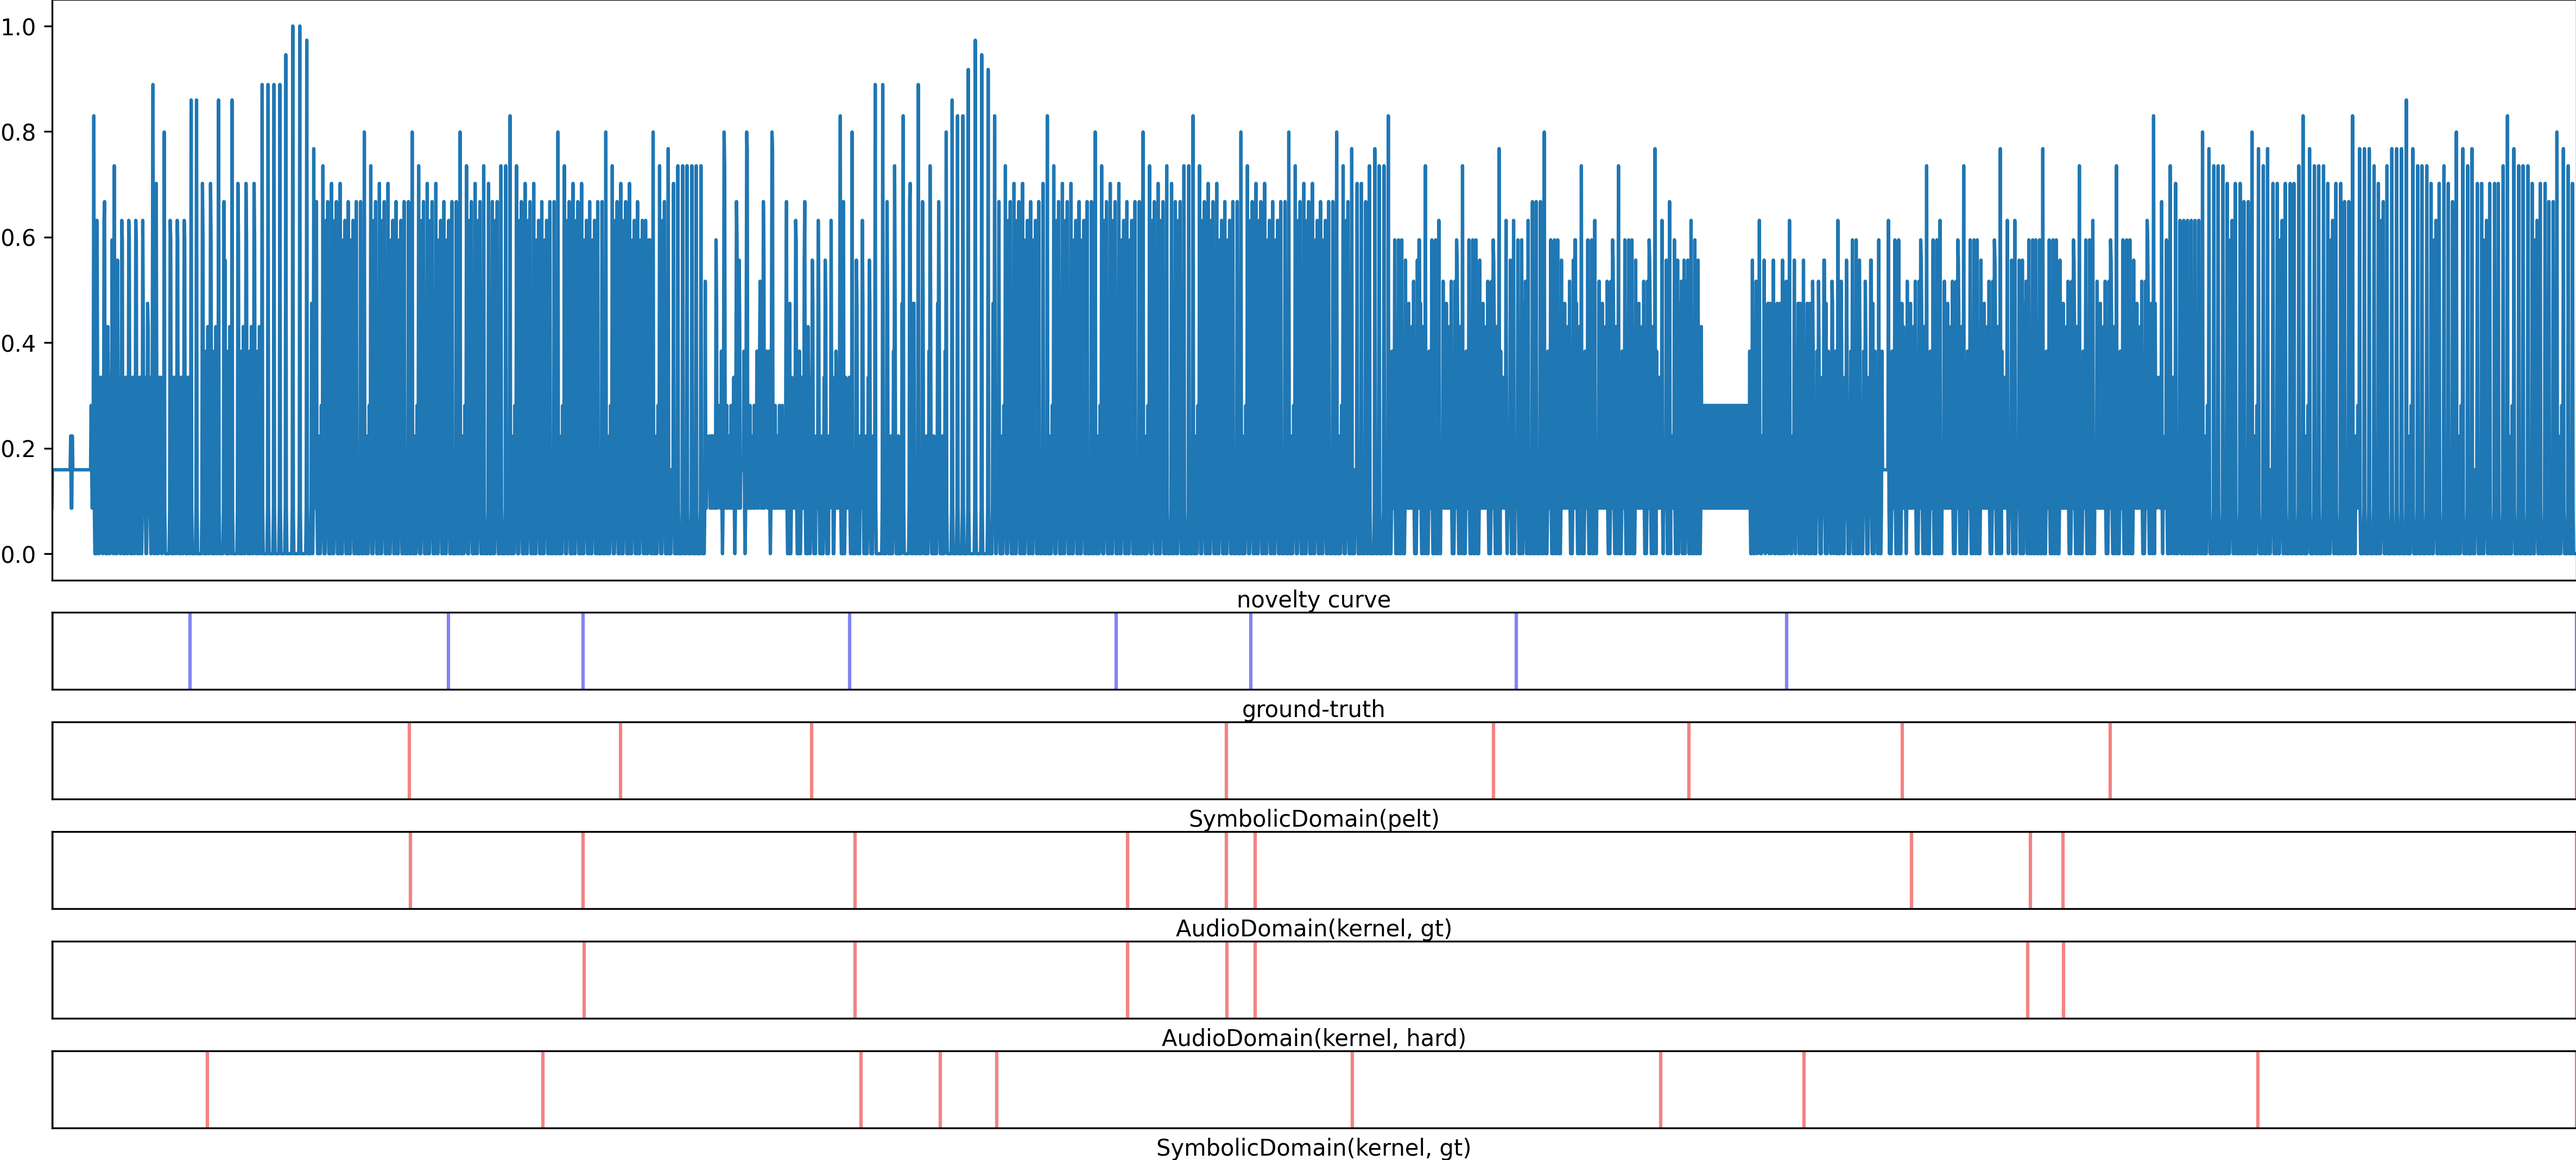
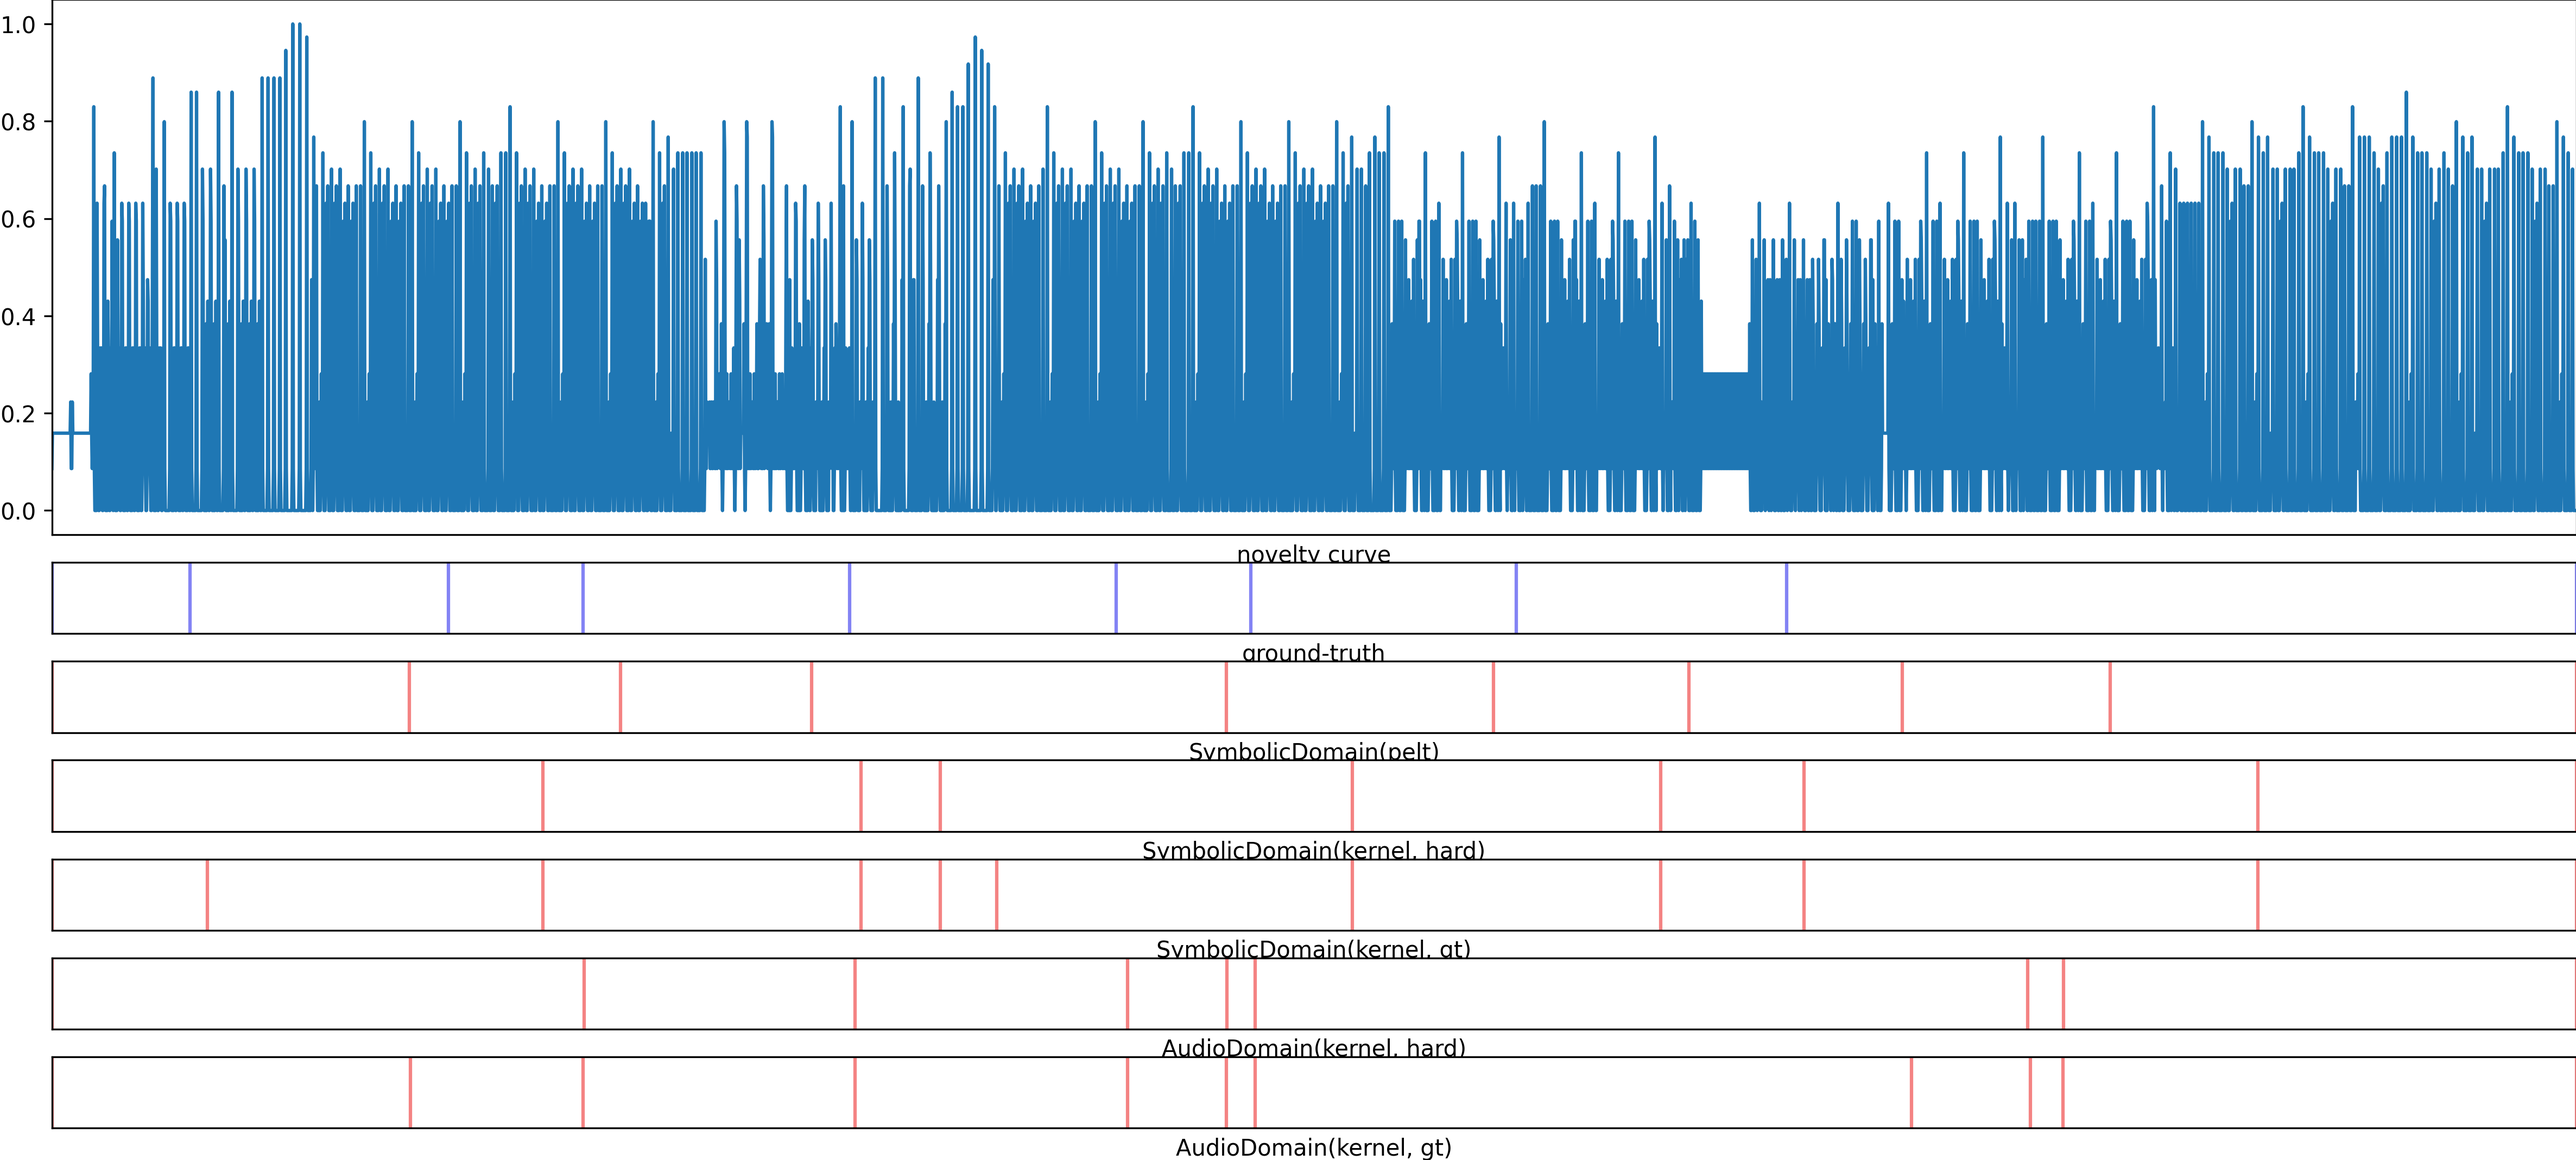
vis pics

diff --git a/visualisation.py b/visualisation.py
@@ -55,8 +55,8 @@ def make_graph_figure(path_string, result_dir):
     log.info("Making picture...")
 
     fig, axes = plt.subplots(
-        nrows=6, ncols=1, figsize=(20, 9), dpi=300,
-        gridspec_kw={'height_ratios': [60, 8, 8, 8, 8, 8]})
+        nrows=7, ncols=1, figsize=(20, 12), dpi=350,
+        gridspec_kw={'height_ratios': [60, 8, 8, 8, 8, 8, 8]})
 
     ax1 = axes[0]
     ax2 = axes[1]
@@ -64,14 +64,15 @@ def make_graph_figure(path_string, result_dir):
     ax4 = axes[3]
     ax5 = axes[4]
     ax6 = axes[5]
+    ax7 = axes[6]
 
     ax1.set_xlabel("novelty curve")
     ax2.set_xlabel("ground-truth")
     ax3.set_xlabel("SymbolicDomain(pelt)")
-    ax4.set_xlabel("AudioDomain(kernel, gt)")
-    ax5.set_xlabel("AudioDomain(kernel, hard)")
-    ax6.set_xlabel("SymbolicDomain(kernel, gt)")
-
+    ax4.set_xlabel("SymbolicDomain(kernel, hard)")
+    ax5.set_xlabel("SymbolicDomain(kernel, gt)")
+    ax6.set_xlabel("AudioDomain(kernel, hard)")
+    ax7.set_xlabel("AudioDomain(kernel, gt)")
 
     sec_mid_predicted = []
     sec_mid_ground_truth = []
@@ -94,14 +95,17 @@ def make_graph_figure(path_string, result_dir):
             pred_mid.append(res)
             ax3.axvline(res, color='#f48383', linestyle="-", alpha=1)
 
-    for p, i in enumerate(np.array(parse_txt(construct_filename_with_your_extension(path_string, "_ruptures_pred.txt"))) * 10.6):
+    for p, i in enumerate(np.array(parse_txt(construct_filename_with_your_extension(path_string, "_symbolic_pred_kernel_hard.txt"))) * 10.6):
         ax4.axvline(i, color='#f48383', linestyle="-", alpha=1)
 
-    for p, i in enumerate(np.array(parse_txt(construct_filename_with_your_extension(path_string, "_ruptures_pred_8.txt"))) * 10.6):
+    for p, i in enumerate(np.array(parse_txt(construct_filename_with_your_extension(path_string, "_symbolic_pred_kernel_gt.txt"))) * 10.6):
         ax5.axvline(i, color='#f48383', linestyle="-", alpha=1)
 
-    for p, i in enumerate(np.array(parse_txt(construct_filename_with_your_extension(path_string, "_symbolic_pred_kernel_gt.txt"))) * 10.6):
+    for p, i in enumerate(np.array(parse_txt(construct_filename_with_your_extension(path_string, "_ruptures_pred_8.txt"))) * 10.6):
         ax6.axvline(i, color='#f48383', linestyle="-", alpha=1)
+
+    for p, i in enumerate(np.array(parse_txt(construct_filename_with_your_extension(path_string, "_ruptures_pred.txt"))) * 10.6):
+        ax7.axvline(i, color='#f48383', linestyle="-", alpha=1)
 
     ax1.set_xticks([])
     ax2.set_xticks([])
@@ -114,6 +118,8 @@ def make_graph_figure(path_string, result_dir):
     ax5.set_yticks([])
     ax6.set_xticks([])
     ax6.set_yticks([])
+    ax7.set_xticks([])
+    ax7.set_yticks([])
 
 
     ax1.margins(x=0)
@@ -122,15 +128,16 @@ def make_graph_figure(path_string, result_dir):
     ax4.margins(x=0)
     ax5.margins(x=0)
     ax6.margins(x=0)
+    ax7.margins(x=0)
 
     log.info("Saving pic into " + result_dir)
-    plt.savefig(result_dir, dpi=300, bbox_inches='tight', pad_inches=0, transparent=False)
+    plt.savefig(result_dir, dpi=350, bbox_inches='tight', pad_inches=0, transparent=False)
     return {"GT": sec_mid_ground_truth, "PREDICTED": sec_mid_predicted}
 
 
 if __name__ == "__main__":
      make_graph_figure("/Users/21415968/Desktop/diploma/symbolic-music-structure-analysis/data/RussianPop/meloch_kiskis/meloch_kiskis.mid",
-                       "/Users/21415968/Desktop/diploma/symbolic-music-structure-analysis/data/")
+                       "/Users/21415968/Desktop/diploma/symbolic-music-structure-analysis/data/visualisation.png")
 
      # make_graph_figure("/Users/21415968/Desktop/diploma/symbolic-music-structure-analysis/data/BPS_FH_Dataset/1/1.mid",
      #                   "/Users/21415968/Desktop/diploma/symbolic-music-structure-analysis/data/")
